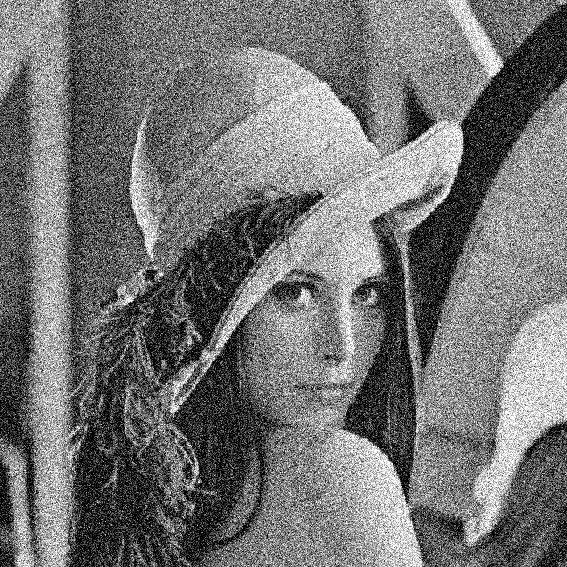
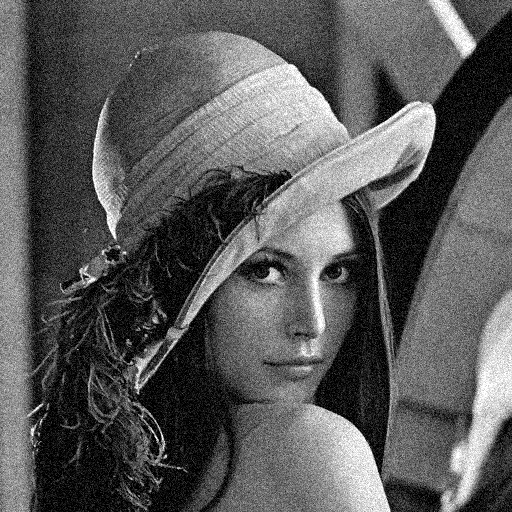
Suppression de la réduction des variables dans la fct moyCov qui donnait des variables trop petite par rapport au seuil VisuShrink

diff --git a/src/ACP/ACP.java b/src/ACP/ACP.java
@@ -71,10 +71,10 @@ public class ACP {
 
 	
 	/**
-     * Centre et réduit les vecteurs d'une liste.
+     * Centre les vecteurs d'une liste.
      * @author Nathan Poireault
-     * @param vecteurs la liste de vecteurs à centrer et réduire
-     * @return une nouvelle liste de vecteurs centrés et réduits
+     * @param vecteurs la liste de vecteurs à centrer
+     * @return une nouvelle liste de vecteurs centrés
      */
 	public static ArrayList<Vecteur> moyCov(ArrayList<Vecteur> vecteurs) {
 		int nbVecteurs = vecteurs.size(); // nombre de colonnes
@@ -93,27 +93,14 @@ public class ACP {
 	        }
 	        moyenne[j] = somme / nbVecteurs;
 	    }
-
-	    // Calcul des écarts-types
-	    for (int j = 0; j < tailleVecteur; j++) {
-	        double somme = 0;
-	        for (int i = 0; i < nbVecteurs; i++) {
-	            double diff = matrice[i][j] - moyenne[j];
-	            somme += diff * diff;
-	        }
-	        ecart_type[j] = Math.sqrt(somme / (nbVecteurs - 1));
-	        if (ecart_type[j] == 0) {
-	            ecart_type[j] = 1; // éviter division par zéro
-	        }
-	    }
-
+	    
 	    // Construction de la liste centrée-réduite
 	    ArrayList<Vecteur> resultat = new ArrayList<Vecteur>();
 
 	    for (int i = 0; i < nbVecteurs; i++) {
 	        double[] valeurs = new double[tailleVecteur];
 	        for (int j = 0; j < tailleVecteur; j++) {
-	            valeurs[j] = (matrice[i][j] - moyenne[j]) / ecart_type[j];
+	            valeurs[j] = (matrice[i][j] - moyenne[j]);
 	        }
 	        Vecteur nouveau = new Vecteur(vecteurs.get(i).getID(), tailleVecteur, valeurs);
 	        resultat.add(nouveau);
@@ -206,7 +193,7 @@ public class ACP {
 	
 	   /**
      * Applique un débruitage aux vecteurs en utilisant l'ACP et un seuillage.
-     * @author Charles Mendiburu
+     * @author Charles Mendiburu, Nathan Poireault
      * @param vecteurs la liste des vecteurs à débruiter. Tous les vecteurs doivent avoir la même dimension.
      * @param typeSeuillage le type de seuillage à appliquer. Les valeurs possibles sont "dur" pour un seuillage dur, et toute autre valeur pour un seuillage doux.
      * @param methodeSeuil la méthode utilisée pour calculer le seuil. Les valeurs possibles sont "VisuShrink" et "BayesShrink".
@@ -277,7 +264,7 @@ public class ACP {
 
 	 /**
      * Affiche les statistiques de base d'un tableau de nombres à virgule flottante.
-     * @author Nathan Poireault
+     * @author Charles Mendiburu
      * @param label une chaîne de caractères descriptive pour identifier les statistiques affichées.
      * @param data le tableau de nombres à virgule flottante pour lequel calculer et afficher les statistiques.
      */

diff --git a/src/PurePixel.java b/src/PurePixel.java
@@ -113,7 +113,7 @@ public class PurePixel {
 			    String typeSeuillage = (choixSeuillage == 1) ? "dur" : "doux";
 			    String methodeSeuil = "VisuShrink"; 
 			    int patchSize = 8;  // taille patch par défaut, modifiable
-			    double sigma = Math.sqrt(50); // écart type bruit, à ajuster ou demander à l'utilisateur
+			    double sigma = Math.sqrt(20); // écart type bruit, à ajuster ou demander à l'utilisateur
 
 			    
 
